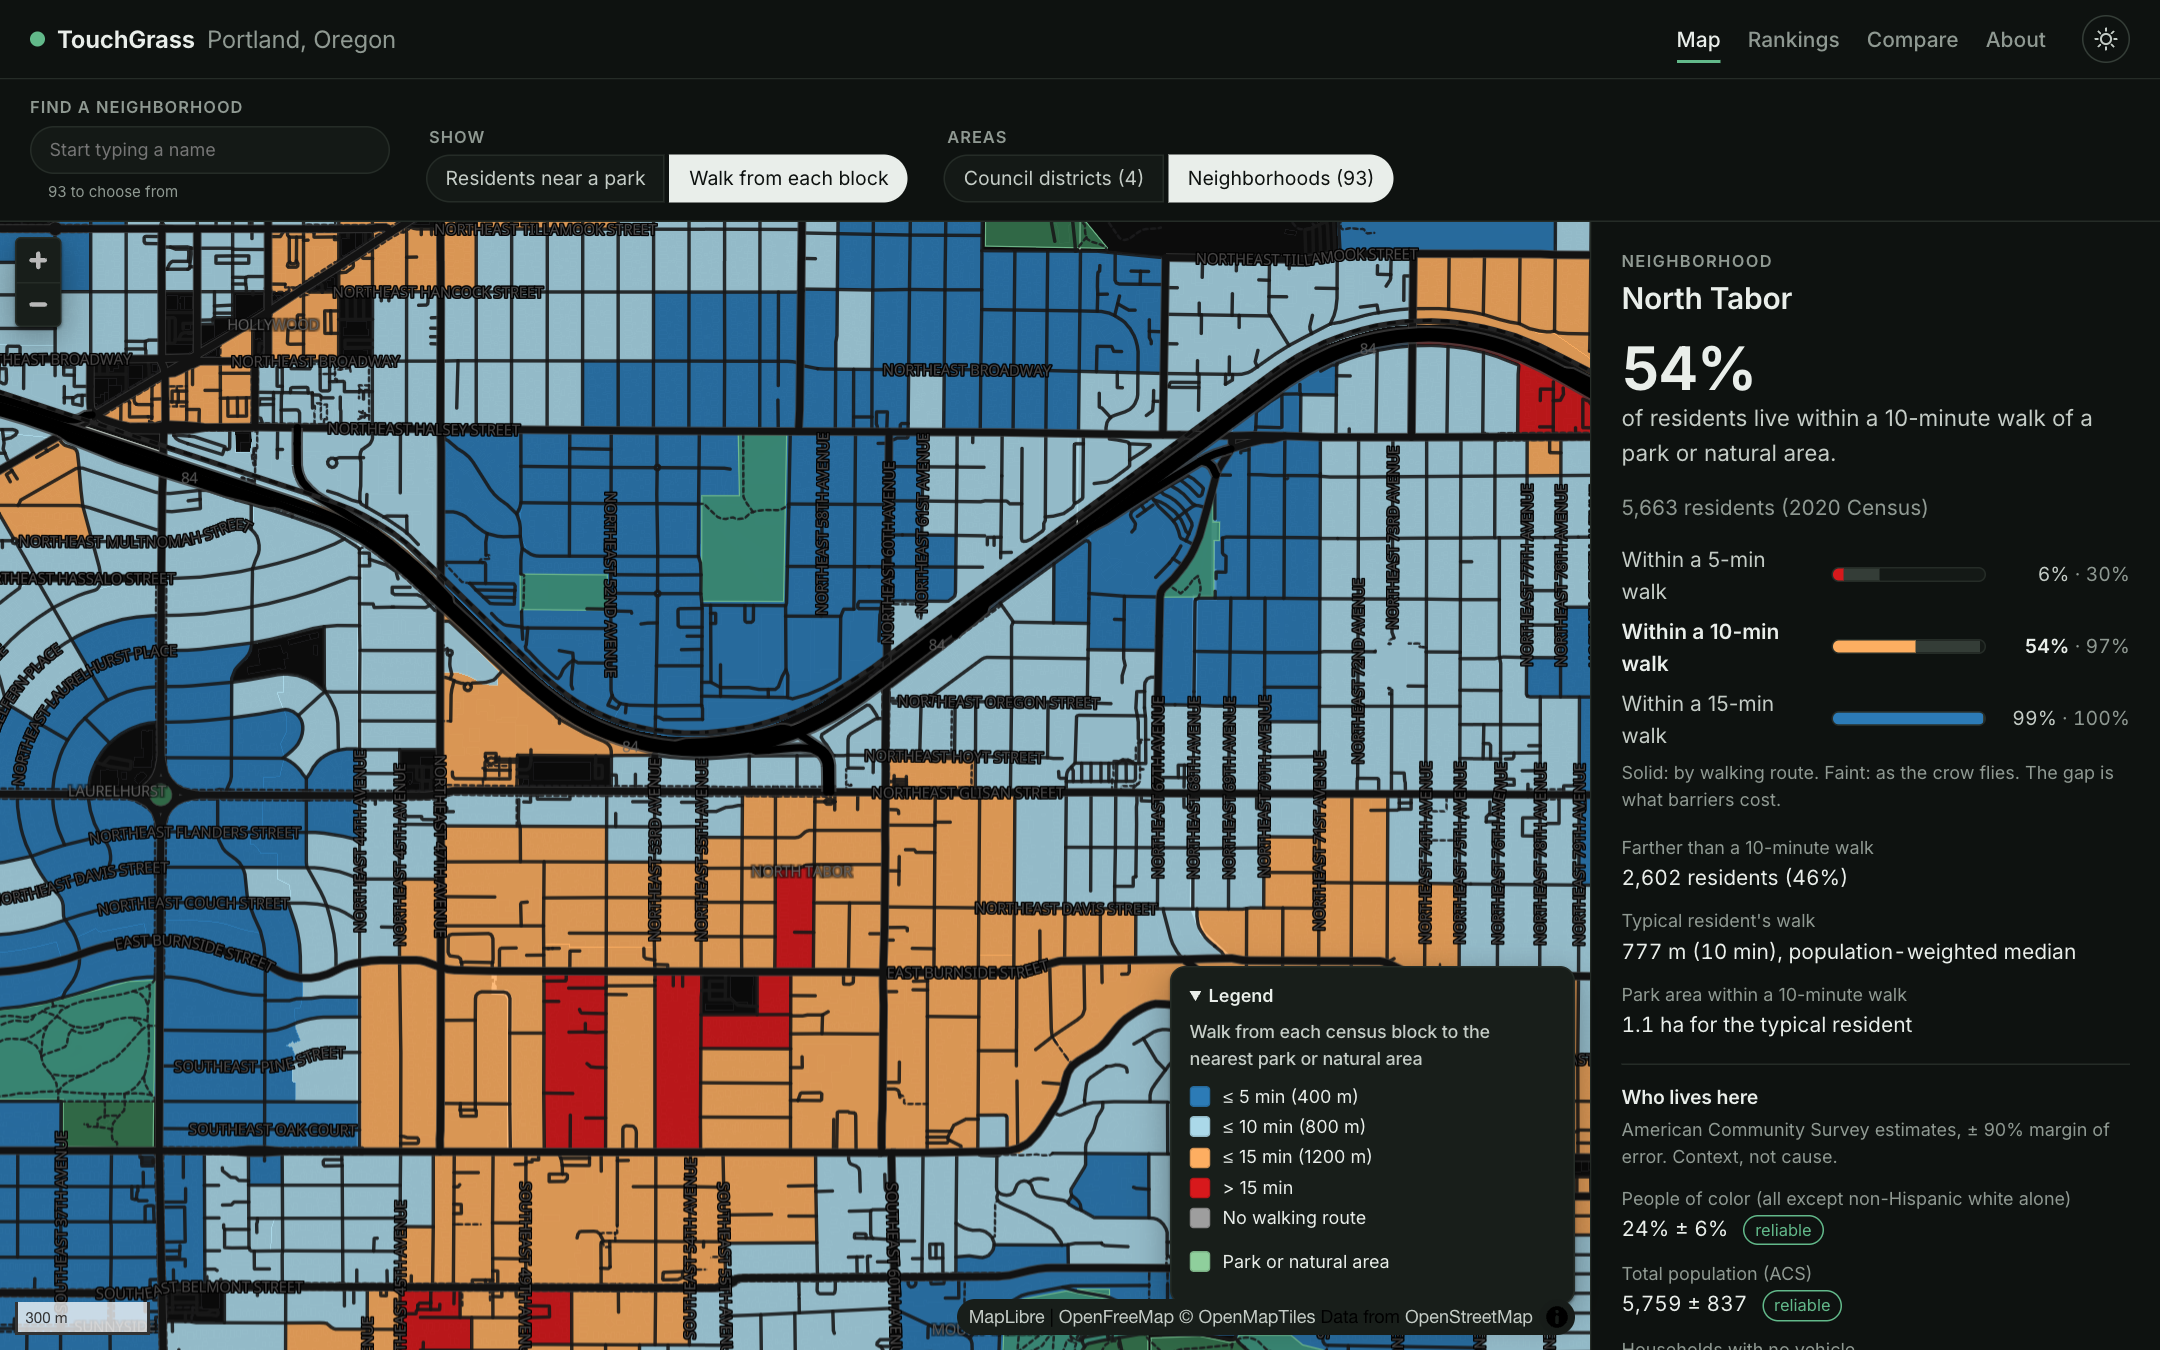
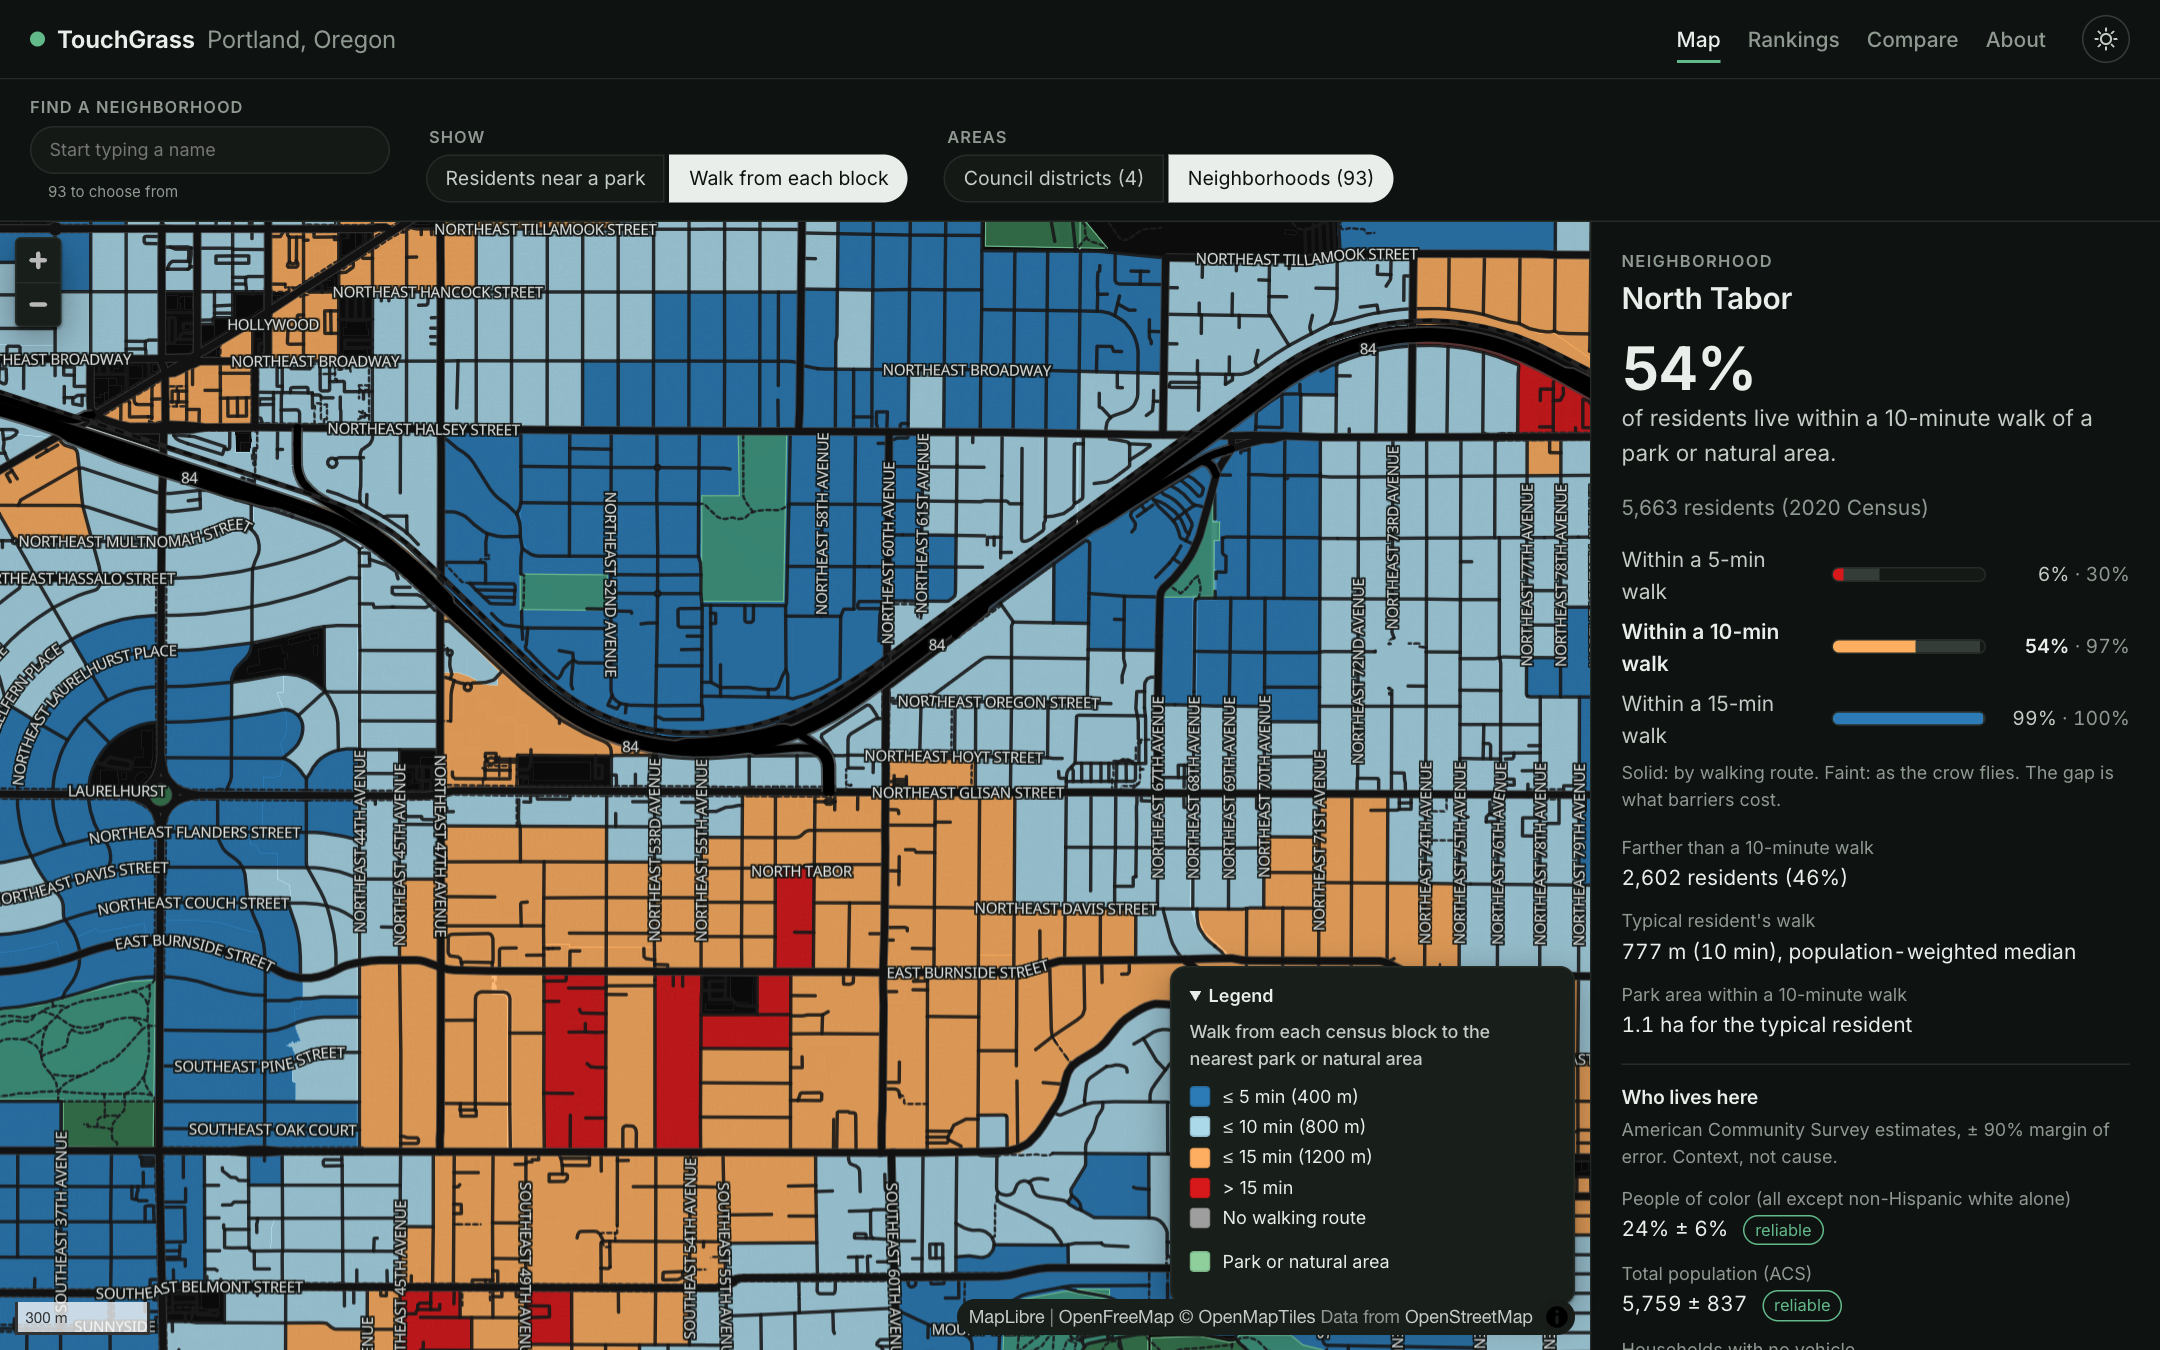
Make darkmode more visible and add fallback map

diff --git a/web/src/map/MapView.tsx b/web/src/map/MapView.tsx
@@ -33,6 +33,8 @@ import { type Bounds, expandBounds, MAX_PAN_KM } from "./bounds";
 import {
   type BlockClass,
   blockColorExpression,
+  fallbackBasemap,
+  LABEL_STYLE,
   LINE_STYLE,
   PARK_STYLE,
   shareColorExpression,
@@ -110,6 +112,22 @@ function setBuildingEmphasis(map: MLMap, mode: Mode): void {
     map.setPaintProperty(layer.id, "fill-opacity", mode === "residents" ? 0.12 : 1);
   }
 }
+
+/** Basemap labels in our ink with a strong halo, so they read over the colored fills. */
+function styleLabels(map: MLMap, theme: Theme): void {
+  const s = LABEL_STYLE[theme];
+  for (const layer of map.getStyle().layers) {
+    if (layer.type !== "symbol" || !map.getLayoutProperty(layer.id, "text-field")) continue;
+    map.setPaintProperty(layer.id, "text-color", s.color);
+    map.setPaintProperty(layer.id, "text-halo-color", s.halo);
+    map.setPaintProperty(layer.id, "text-halo-width", s.haloWidth);
+    map.setPaintProperty(layer.id, "text-halo-blur", s.haloBlur);
+  }
+}
+
+export const BASEMAP_UNAVAILABLE =
+  "The street map couldn't load: a blocker or your network may be stopping " +
+  "tiles.openfreemap.org. Showing the data without streets.";
 
 /** Areas are opaque in the residents view; in the blocks view transparent but clickable. */
 const areaOpacity = (mode: Mode) => (mode === "residents" ? 1 : 0);
@@ -279,7 +297,13 @@ export function MapView(props: Props) {
     if (import.meta.env.DEV) (window as unknown as { __map?: MLMap }).__map = map;
     map.addControl(new maplibregl.NavigationControl({ showCompass: false }), "top-left");
     map.addControl(new maplibregl.ScaleControl({ unit: "metric" }), "bottom-left");
+    // If the basemap can't be fetched (blocked host, network), "load" never fires and the
+    // map stays blank. Fall back once to a plain background so the data still draws.
+    let ready = false;
+    let fellBack = false;
     map.on("load", () => {
+      ready = true;
+      styleLabels(map, props.theme);
       addDataLayers(map, props.region, props.blockClasses, handlers.current.mode, props.theme);
       setBuildingEmphasis(map, handlers.current.mode);
       setLoaded(true);
@@ -291,6 +315,13 @@ export function MapView(props: Props) {
       handlers.current.onMoveEnd({ center: [c.lng, c.lat], zoom: map.getZoom() });
     });
     map.on("error", (e) => {
+      if (!ready && !fellBack) {
+        // Before the first load, only the basemap is being fetched (our sources come later).
+        fellBack = true;
+        map.setStyle(fallbackBasemap(props.theme));
+        handlers.current.onError(BASEMAP_UNAVAILABLE);
+        return;
+      }
       const msg = e.error?.message ?? "map error";
       handlers.current.onError(msg);
     });
@@ -393,7 +424,7 @@ export function MapView(props: Props) {
   const needZoom = props.mode === "blocks" && loaded && zoom < BLOCK_MIN_ZOOM - 0.01;
   return (
     <div className="map-wrap">
-      <div ref={container} className="map" data-testid="map" />
+      <div ref={container} className="map" data-testid="map" data-loaded={loaded} />
       {needZoom ? (
         // Dims the map so "nothing drawn yet" is obvious, without blocking scroll-to-zoom: the
         // overlay ignores the pointer, only the card takes clicks.

diff --git a/web/tests/style.test.ts b/web/tests/style.test.ts
@@ -1,4 +1,4 @@
-import { expression, latest } from "@maplibre/maplibre-gl-style-spec";
+import { expression, latest, validateStyleMin } from "@maplibre/maplibre-gl-style-spec";
 import { describe, expect, it } from "vitest";
 
 import {
@@ -6,7 +6,10 @@ import {
   blockClassOf,
   blockColorExpression,
   blockLegend,
+  fallbackBasemap,
+  LABEL_STYLE,
   NO_DATA_COLOR,
+  PAGE_BG,
   NO_ROUTE_COLOR,
   SHARE_COLORS,
   shareClassIndex,
@@ -126,5 +129,42 @@ describe("share classes", () => {
       "85%–95% of residents",
       "95% or more of residents",
     ]);
+  });
+});
+
+/** WCAG relative luminance and contrast ratio for #rrggbb or rgba(r, g, b, a) colors. */
+function luminance(color: string): number {
+  const rgb = color.startsWith("#")
+    ? [1, 3, 5].map((i) => parseInt(color.slice(i, i + 2), 16))
+    : (color.match(/[\d.]+/g) ?? []).slice(0, 3).map(Number);
+  const [r, g, b] = rgb.map((v) => {
+    const c = v / 255;
+    return c <= 0.03928 ? c / 12.92 : ((c + 0.055) / 1.055) ** 2.4;
+  });
+  return 0.2126 * r! + 0.7152 * g! + 0.0722 * b!;
+}
+const contrast = (a: string, b: string) => {
+  const [hi, lo] = [luminance(a), luminance(b)].sort((x, y) => y - x);
+  return (hi! + 0.05) / (lo! + 0.05);
+};
+
+describe("map labels and the fallback basemap", () => {
+  it("labels contrast strongly with their halo in both themes", () => {
+    for (const theme of ["light", "dark"] as const) {
+      const s = LABEL_STYLE[theme];
+      expect(contrast(s.color, s.halo)).toBeGreaterThanOrEqual(7); // WCAG AAA for text
+      expect(s.haloWidth).toBeGreaterThanOrEqual(1.5);
+    }
+  });
+
+  it("the fallback basemap is a valid style that needs no network", () => {
+    for (const theme of ["light", "dark"] as const) {
+      const style = fallbackBasemap(theme);
+      expect(validateStyleMin(style)).toEqual([]);
+      expect(style.sources).toEqual({});
+      expect(style.glyphs).toBeUndefined(); // no fonts to fetch
+      expect(style.sprite).toBeUndefined();
+      expect(style.layers[0]).toMatchObject({ paint: { "background-color": PAGE_BG[theme] } });
+    }
   });
 });

diff --git a/web/src/map/style.ts b/web/src/map/style.ts
@@ -12,7 +12,7 @@
  * green is the pair colorblind readers most often confuse (D-024 amendment 2).
  */
 
-import type { ExpressionSpecification } from "maplibre-gl";
+import type { ExpressionSpecification, StyleSpecification } from "maplibre-gl";
 
 export type LegendItem = { color: string; label: string };
 export type Threshold = { minutes: number; meters: number };
@@ -37,6 +37,37 @@ export const LINE_STYLE: Record<Theme, { area: string; highlight: string }> = {
   light: { area: "#4a524c", highlight: "#111511" },
   dark: { area: "#b8c2bb", highlight: "#ffffff" },
 };
+
+/**
+ * Basemap labels over our colored fills. The basemaps' own label colors are tuned for their
+ * plain backgrounds: the dark style's mid-grey (rgb 101,101,101) nearly vanished over the
+ * share colors. Near-ink text with a strong page-colored halo reads over any fill.
+ */
+export const LABEL_STYLE: Record<
+  Theme,
+  { color: string; halo: string; haloWidth: number; haloBlur: number }
+> = {
+  light: { color: "#2b302c", halo: "rgba(255, 255, 255, 0.92)", haloWidth: 1.6, haloBlur: 0.4 },
+  dark: { color: "#f2f5f3", halo: "rgba(14, 18, 16, 0.92)", haloWidth: 1.6, haloBlur: 0.4 },
+};
+
+/** Page background per theme (the CSS --bg token), for the fallback basemap. */
+export const PAGE_BG: Record<Theme, string> = { light: "#ffffff", dark: "#0e1210" };
+
+/**
+ * A plain basemap for when the real one can't load (a blocker or a network that stops
+ * tiles.openfreemap.org). Our own layers need no fonts or sprites, so they draw on it.
+ */
+export function fallbackBasemap(theme: Theme): StyleSpecification {
+  return {
+    version: 8,
+    name: "touchgrass-fallback",
+    sources: {},
+    layers: [
+      { id: "background", type: "background", paint: { "background-color": PAGE_BG[theme] } },
+    ],
+  };
+}
 
 /**
  * RdYlBu without its pale middle, 5 classes: the lowest shares get the strongest warm color, so

diff --git a/web/src/App.tsx b/web/src/App.tsx
@@ -24,7 +24,13 @@ import { AreaTypeToggle, ModeToggle, SearchBox, ThresholdToggle } from "./compon
 import { Legend } from "./components/Legend";
 import { type Selection, SidePanel } from "./components/SidePanel";
 import { typeLabel } from "./format";
-import { type Bounds, type Camera, type MapClick, MapView } from "./map/MapView";
+import {
+  BASEMAP_UNAVAILABLE,
+  type Bounds,
+  type Camera,
+  type MapClick,
+  MapView,
+} from "./map/MapView";
 import { blockClasses, blockLegend, PARK_COLOR, shareLegend, type Theme } from "./map/style";
 import {
   formatView,
@@ -482,7 +488,11 @@ export function App() {
         <Legend title="" items={[{ color: PARK_COLOR, label: "Park or natural area" }]} />
       </details>
       {mapError ? (
-        <p className="error map-error" role="alert">
+        // A missing street map is a degraded view, not a failure: say so without alarm.
+        <p
+          className={mapError === BASEMAP_UNAVAILABLE ? "map-error map-notice" : "error map-error"}
+          role={mapError === BASEMAP_UNAVAILABLE ? "status" : "alert"}
+        >
           {mapError}{" "}
           <button type="button" className="link" onClick={() => setMapError(null)}>
             dismiss

diff --git a/e2e/smoke.spec.ts b/e2e/smoke.spec.ts
@@ -51,8 +51,25 @@ async function openApp(page: Page, path = "") {
 test("the map loads with the region's data", async ({ page }) => {
   await openApp(page);
   await expect(page.locator(".maplibregl-canvas")).toBeVisible();
+  await expect(page.getByTestId("map")).toHaveAttribute("data-loaded", "true");
   await expect(page.getByRole("combobox")).toBeVisible(); // area search, filled from the API
   await expect(page.locator("body")).toContainText(/within a 10-minute walk/i);
+});
+
+test("the data still draws when the street map is blocked", async ({
+  page,
+}) => {
+  // As with an ad blocker or a filtering network (a real report from a visitor).
+  await page.unroute("https://tiles.openfreemap.org/**");
+  await page.route("https://tiles.openfreemap.org/**", (route) =>
+    route.abort("blockedbyclient"),
+  );
+  await openApp(page);
+  await expect(page.getByTestId("map")).toHaveAttribute("data-loaded", "true");
+  await expect(page.getByRole("status")).toContainText(
+    "The street map couldn't load",
+  );
+  await expect(page.getByRole("alert")).toHaveCount(0); // a degraded view, not an error
 });
 
 test("Rankings shows four titled lists, and a deep link works", async ({

diff --git a/web/src/styles.css b/web/src/styles.css
@@ -409,6 +409,12 @@ button.link {
   border: 1px solid var(--line);
   border-radius: 999px;
   box-shadow: var(--shadow);
+  max-width: min(560px, calc(100% - 120px)); /* clear of the zoom buttons */
+}
+.map-notice {
+  border-radius: 12px;
+  color: var(--ink-2);
+  font-size: 13px;
 }
 
 /* MapLibre's controls, in the page's colors (both themes). */
@@ -427,6 +433,9 @@ button.link {
 .maplibregl-ctrl-attrib {
   background: var(--raised) !important;
   color: var(--muted);
+}
+.maplibregl-ctrl-attrib-inner {
+  color: var(--muted); /* MapLibre's default near-black vanished on the dark theme */
 }
 .maplibregl-ctrl-attrib a {
   color: var(--ink-2) !important;

diff --git a/docs/IMPLEMENTATION_LOG.md b/docs/IMPLEMENTATION_LOG.md
@@ -615,3 +615,28 @@ The project owner accepted D-016 (cite TPL's published Portland figures; don't i
 - **Created** `docs/PORTFOLIO.md`: descriptions, architecture, stack rationale, data flow, challenges, trade-offs, screenshots to capture, validation, lessons learned, future work, resume bullets, an interview walkthrough and 22 interview questions.
 - **Checked:** every figure against the database, run records, `reference.json` or this log. Where older notes disagree with today's data (park access points: 11,878 in an early Stage 5 run, 15,601 in the current network report), today's figure is used.
 - **Kept local:** you git-ignored `docs/PORTFOLIO.md`, so the README doesn't link it.
+
+## 2026-11-25 — After launch: basemap fallback, label contrast (D-026 amendment 1)
+
+**Reports:**
+- A visitor in Houston saw `AJAXError: Failed to fetch (0)` for both OpenFreeMap styles.
+- Dark-mode place names were hard to read.
+
+**Diagnosis:**
+- OpenFreeMap answered normally (200, ~0.1 s, `access-control-allow-origin: *`), and a visitor in Vietnam loaded it, so the request was stopped on the visitor's side (blocker, DNS filter or network).
+- Reproduced on the live site by blocking the host in Playwright: the map stayed blank, because data layers were added only after the basemap loaded.
+- The dark style's labels are `rgb(101,101,101)` with a thin halo.
+
+**Fix:**
+- `fallbackBasemap()` and a one-time switch on a pre-load error, with a neutral notice;
+- `LABEL_STYLE` applied to every basemap text layer;
+- the credits text color;
+- `data-loaded` on the map container, for tests.
+
+**Tests:**
+- **Web:** 54 (+2: label contrast ≥ 7:1, fallback style valid and network-free).
+- **Browser:** 9 (+1: OpenFreeMap blocked, the data still draws, a status notice and no alert). The new test fails against the old live site and passes on the fix.
+
+**Also fixed:** `e2e/screenshots.mjs` had a nameless entry left from an earlier edit, which wrote `undefined.png`. README screenshots retaken.
+
+**Not verified:** the deployed fix (needs a push), and the visitor's own browser.

diff --git a/docs/DECISIONS.md b/docs/DECISIONS.md
@@ -561,3 +561,7 @@ TouchGrass is a public portfolio project, so clipping, reprojecting or overlayin
 | Q6 | A committed `results/<region>/reference.json` (source checksums, run ids, headline figures); `touchgrass reference` writes and compares it; a fresh-clone rehearsal. Raw data is not redistributed. |
 | Q7 | A SELECT-only `touchgrass_reader` role with read-only transactions and `statement_timeout` set on the role; production CORS allows only the Pages origin; secrets only in host and GitHub settings; no rate limiter. |
 | Q8 | Final README (results, screenshots, architecture diagram, live link, quickstart, licences, CI badge, credits) and `docs/DEPLOYMENT.md`. The longer write-up comes from `/learn:portfolio`. |
+
+**Amendment 1 (2026-11-25, after launch; "Yes, make both"):**
+- **Basemap fallback.** A visitor's browser couldn't reach `tiles.openfreemap.org` (`Failed to fetch (0)`: a blocker or filtering network; the host itself was up). The data layers were added only after the basemap loaded, so the whole map stayed blank. Now, if the basemap fails before the first load, the map switches once to a plain built-in background (no fonts, sprites or sources to fetch), draws the data on it, and shows a neutral notice instead of an error.
+- **Label contrast.** The dark basemap's mid-grey labels (rgb 101,101,101) nearly vanished over the share colors. Every basemap text label now uses the page's ink with a strong page-colored halo (both themes; a test requires a WCAG contrast of at least 7:1 between text and halo). The map credits' plain text uses the muted token, readable in dark mode.

diff --git a/docs/learning/stage-11-hardening-deployment.md b/docs/learning/stage-11-hardening-deployment.md
@@ -344,3 +344,7 @@ All eight as recommended (D-026).
 - **`/health` doesn't report the run id** (§9 said it would). It reports the schema version; the run id is in `/api/v1/regions/{id}`. No new field for a check that already exists.
 - **The run id isn't stable across commits** (see §13), so reproduction is judged on checksums and figures.
 - **Added:** the phone-width overflow fix and its tests, a PostGIS version line in `db status`, `render.yaml`, the `TOUCHGRASS_POOL_*` and `TOUCHGRASS_SESSION_OPTIONS` settings, and `py.typed` for the API package.
+- **After launch (D-026 amendment 1):**
+  - **The basemap is a dependency the app didn't survive losing.** One visitor's browser couldn't reach OpenFreeMap (a blocker or filtering network) and saw a blank map, although our data and API were fine. The map now falls back to a plain background and still draws the data.
+  - **The dark basemap's mid-grey labels nearly vanished over the data colors;** labels now use the page's ink with a strong halo.
+  - **Lesson:** every third-party request is a way to fail. Decide what the page shows without it.
